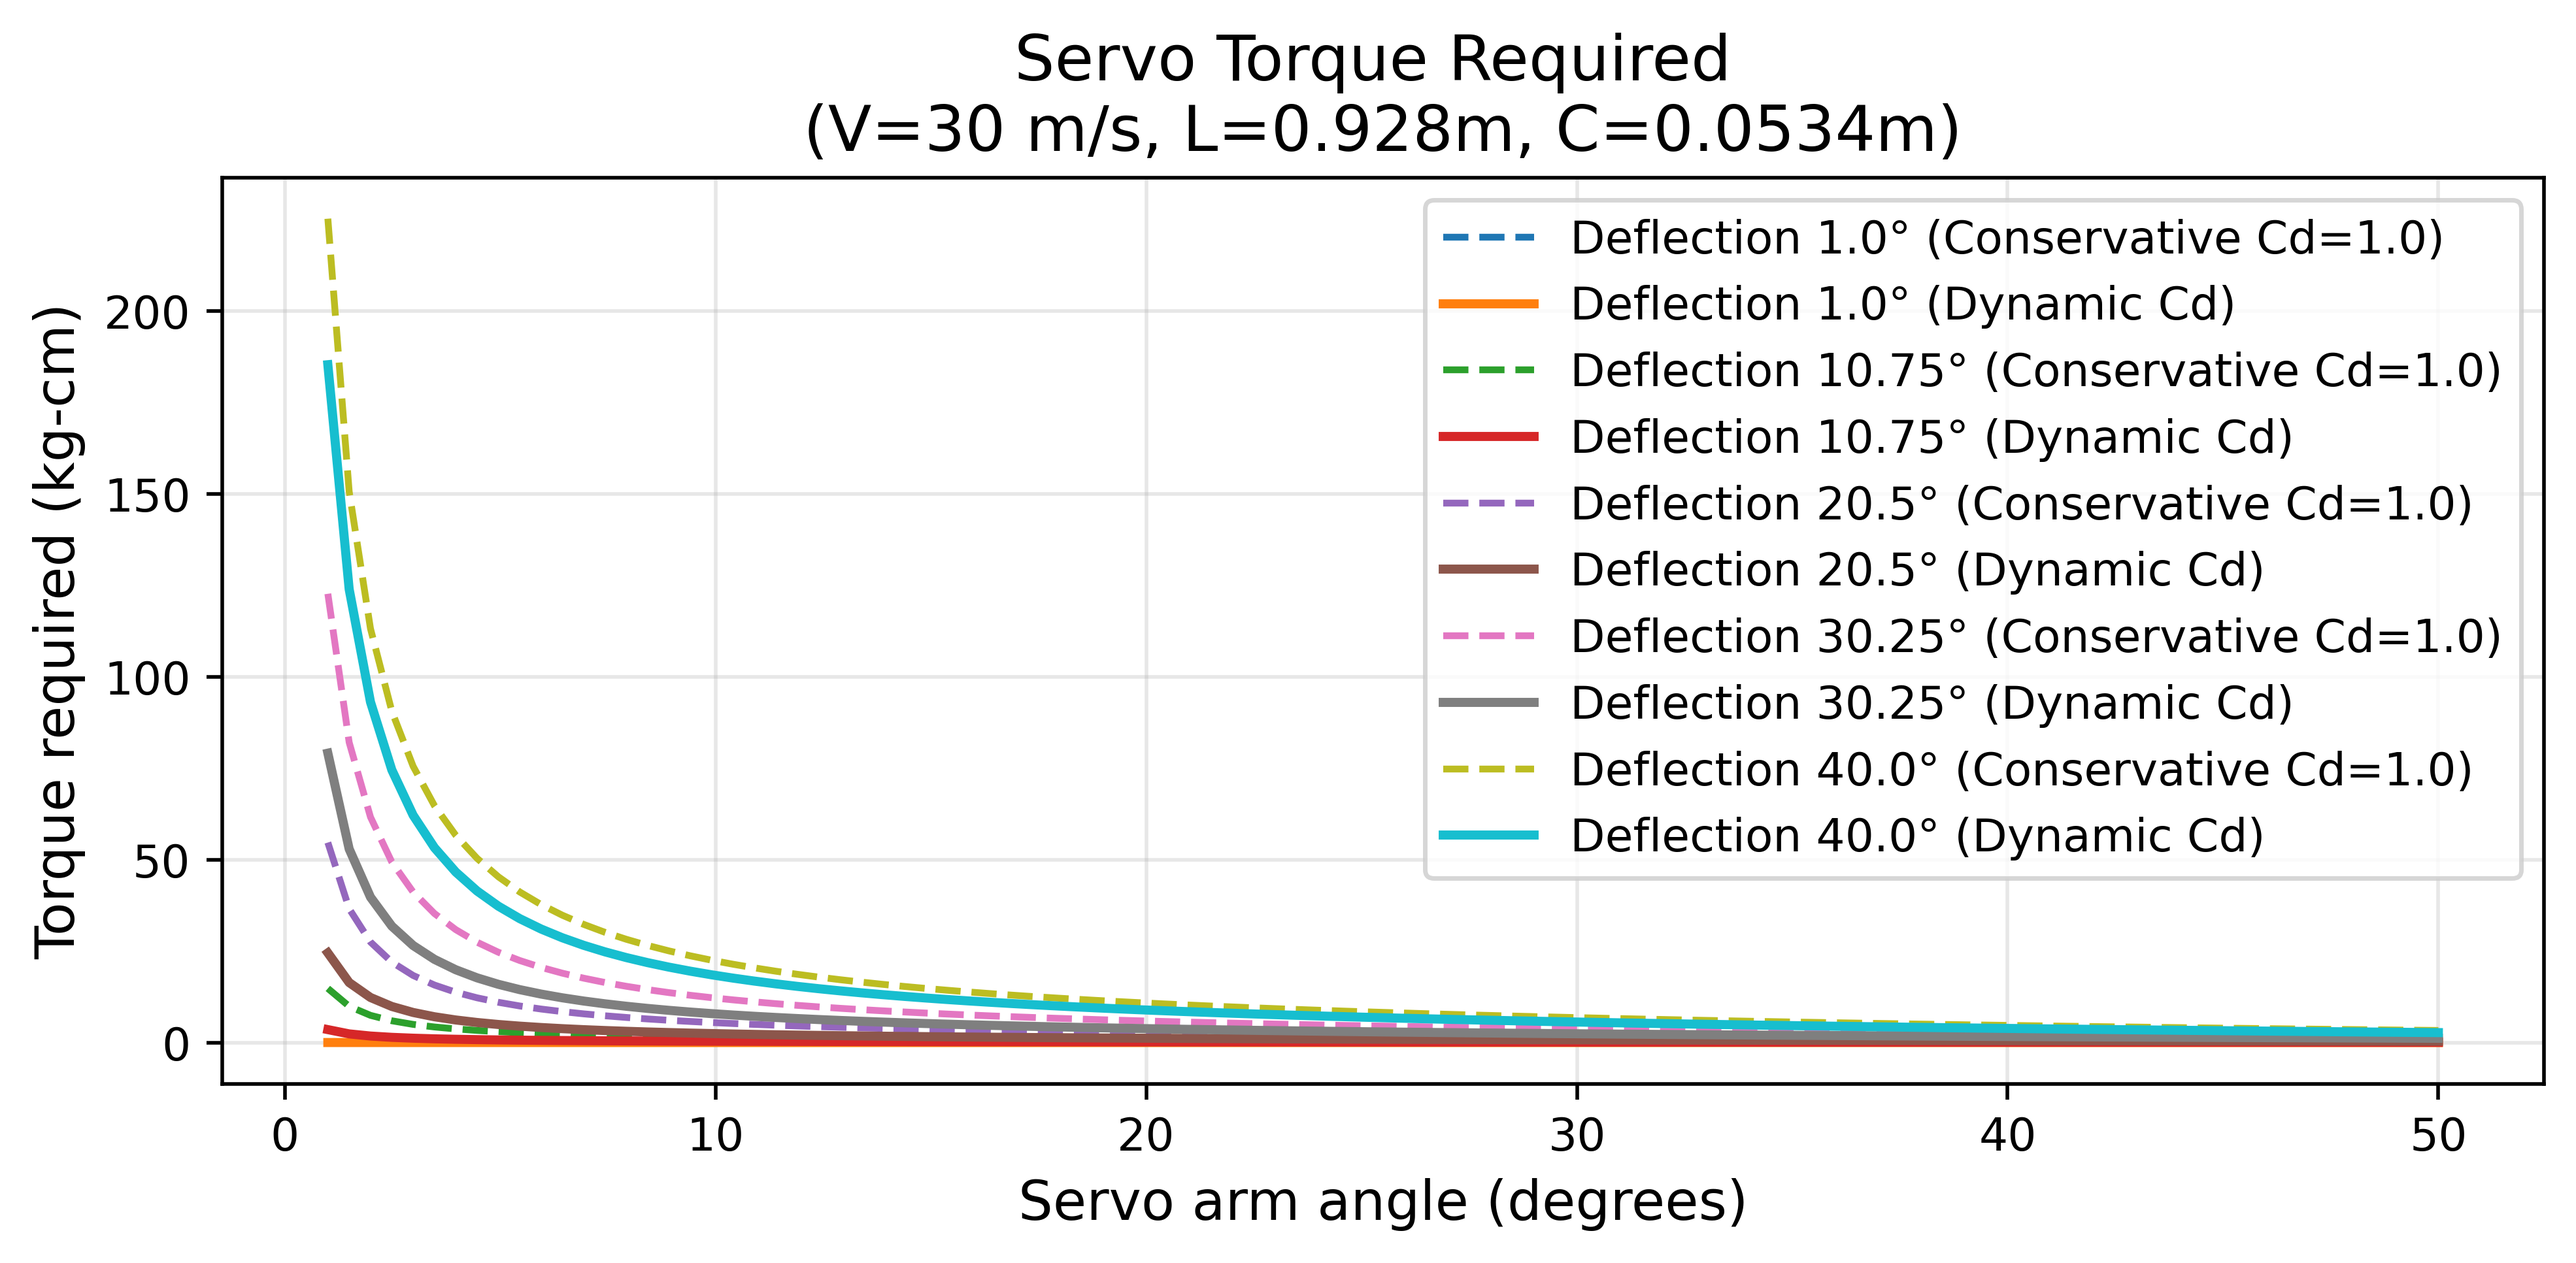
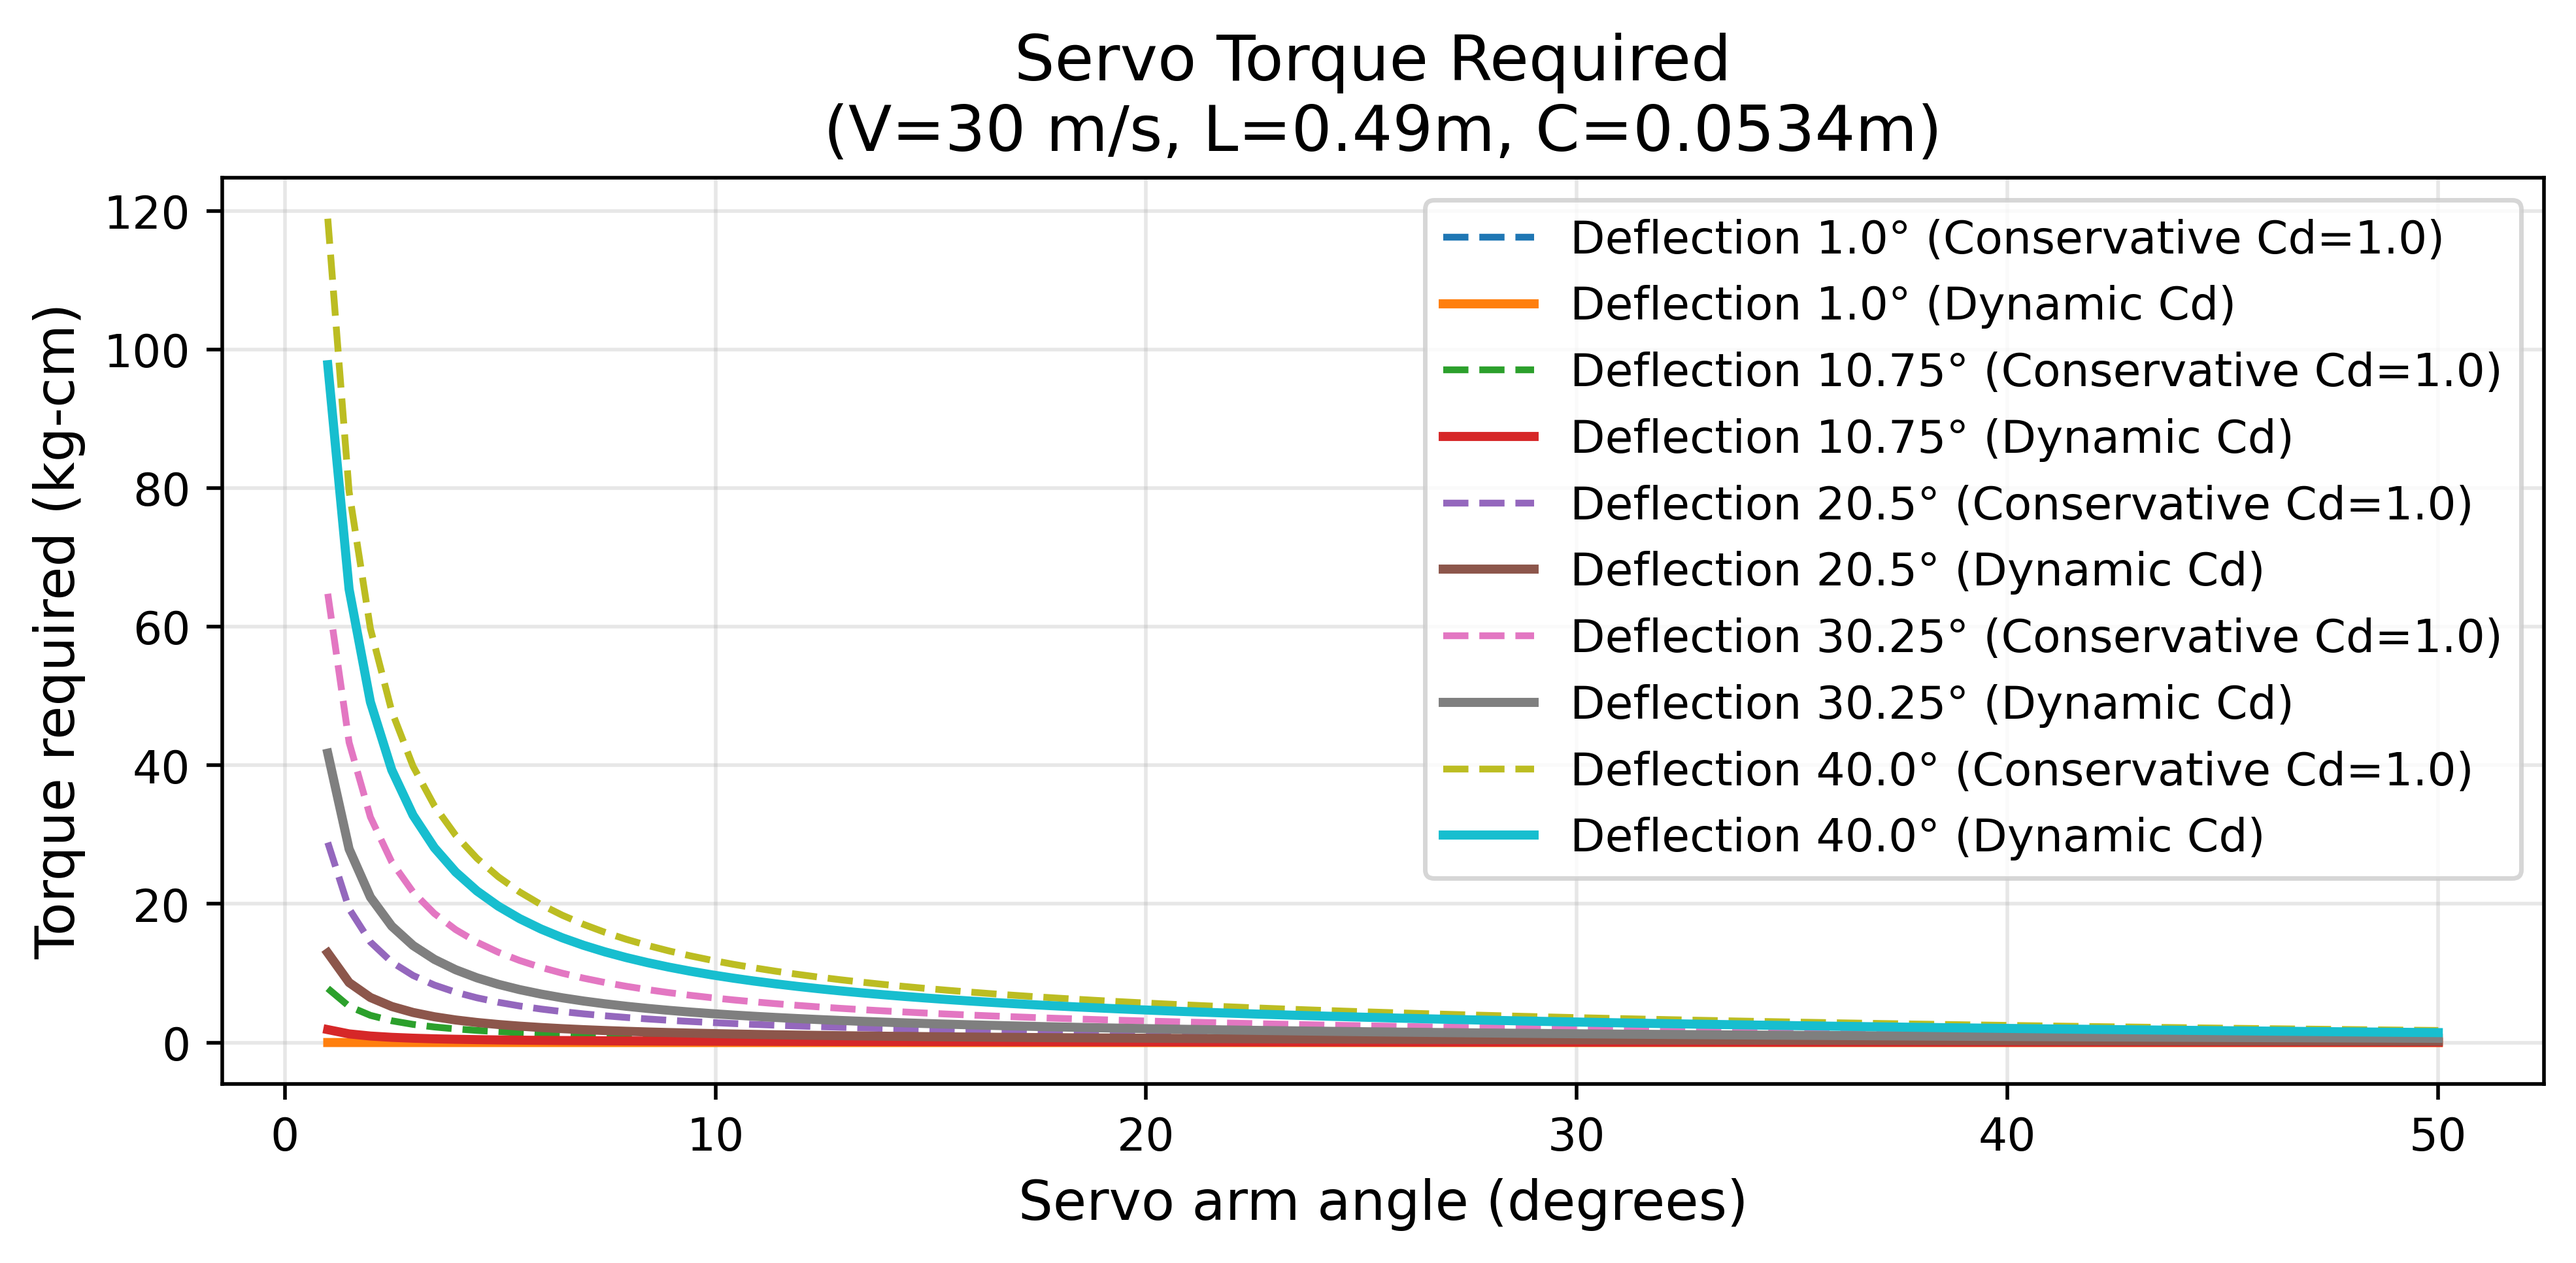
.

diff --git a/CAT 25_26/Servos/servos_v2.py b/CAT 25_26/Servos/servos_v2.py
@@ -287,12 +287,27 @@ def plot_kinematic_torque(s_max, c_max, params):
 # Do not just look at maximum value.
 # We want max deflection of control surface at max deflection of servo.
 
+# Tail elevators
 params = {
-    'L': 2 * 0.464, # Control surface length (meters)
+    'L': 1.069, # Control surface length (meters)
     'C': 0.0534, # Control surface chord (meters)
     'V': 30, # Airspeed (m/s)
 }
-
+#%%
+# Tail rudder
+params = {
+    'L': 0.464,
+    'C': 0.0534,
+    'V': 30,
+}
+#%%
+# Wing aileron
+params = {
+    'L': 1.19 - 0.7,
+    'C': 0.0534,
+    'V': 30,
+}
+#%%
 s_min = 1
 s_max = 50
 c_min = 1
